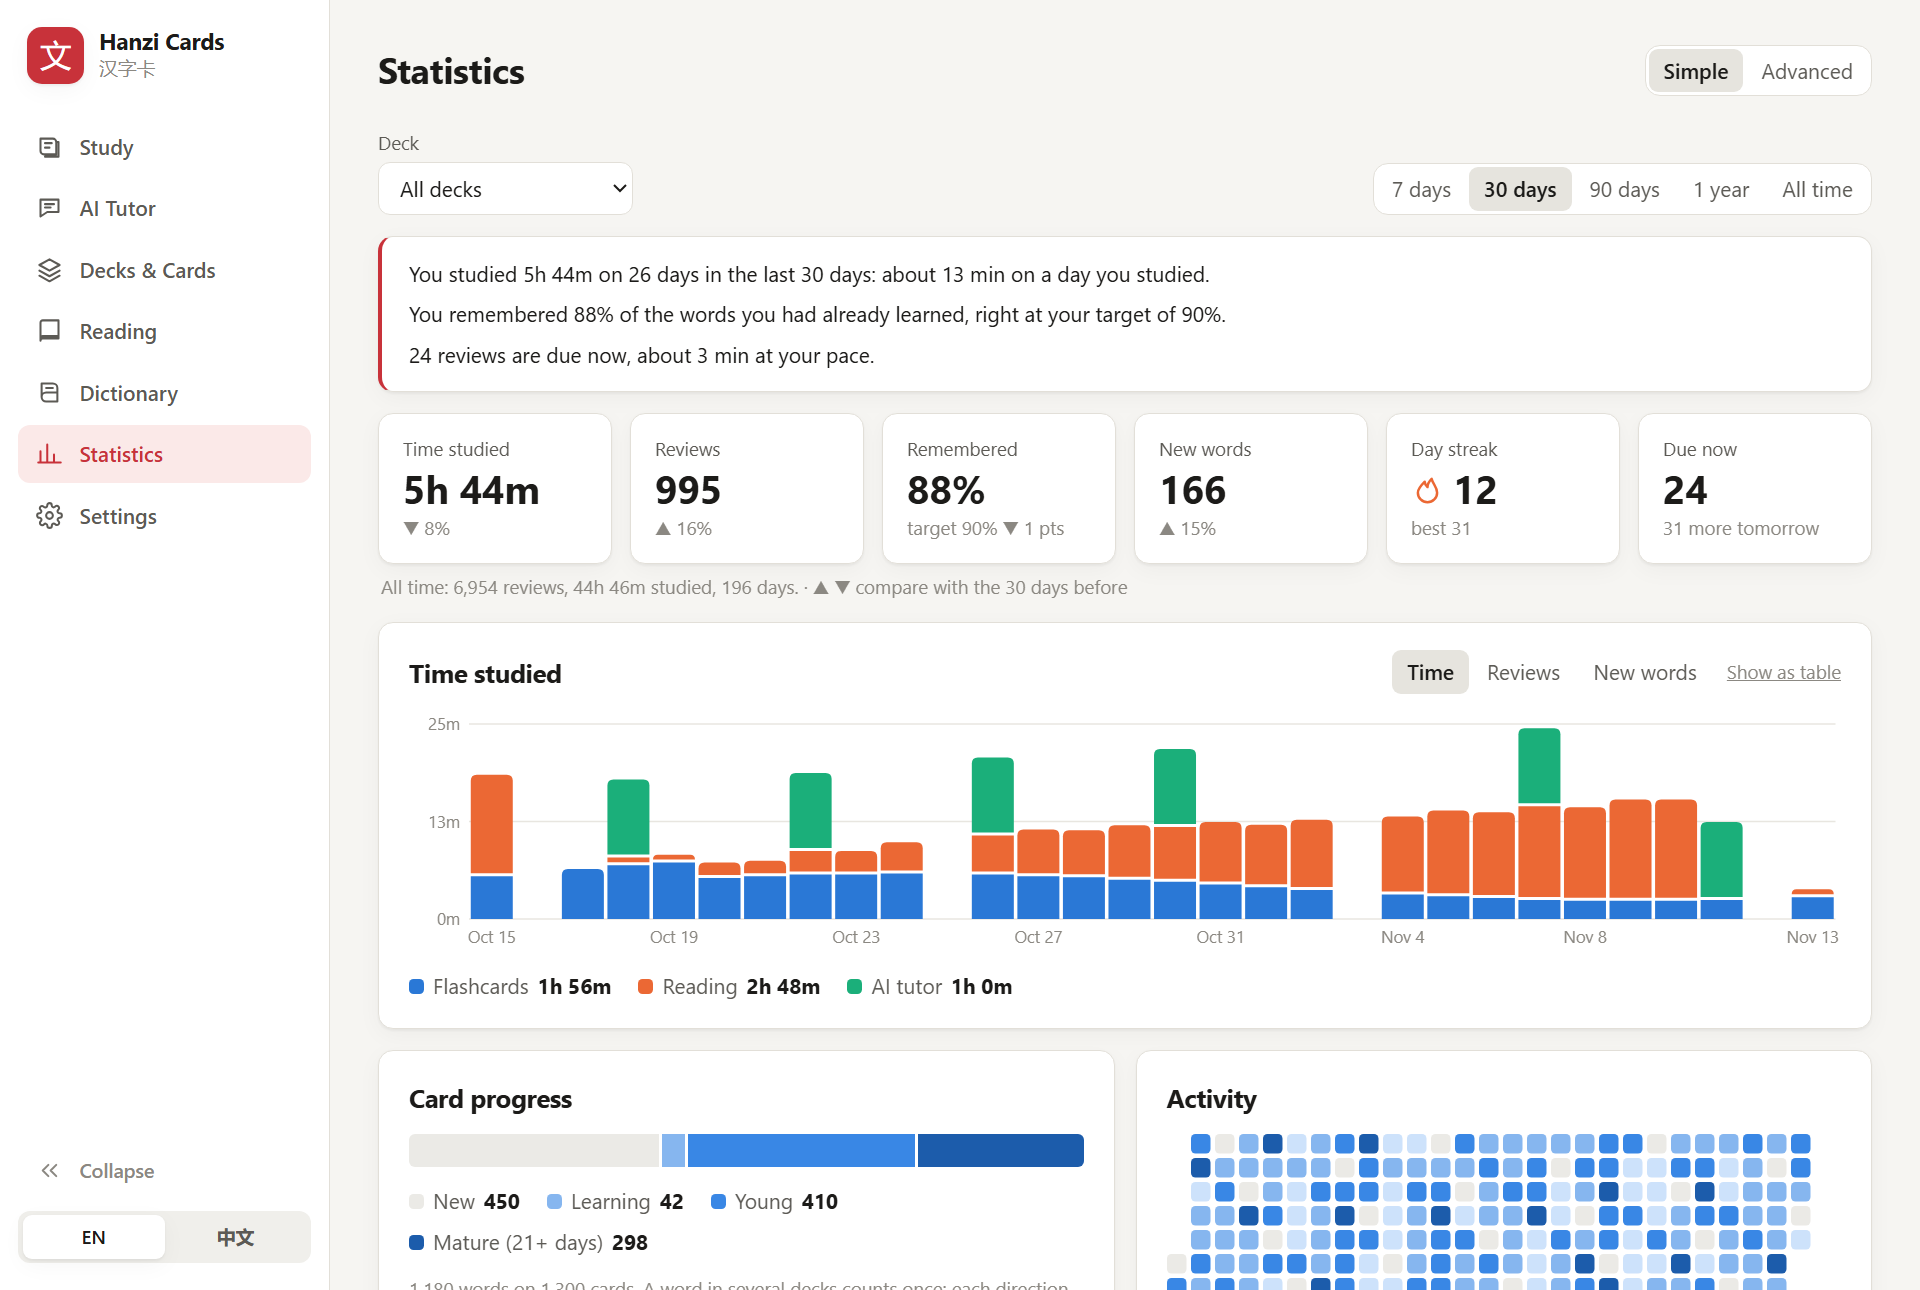
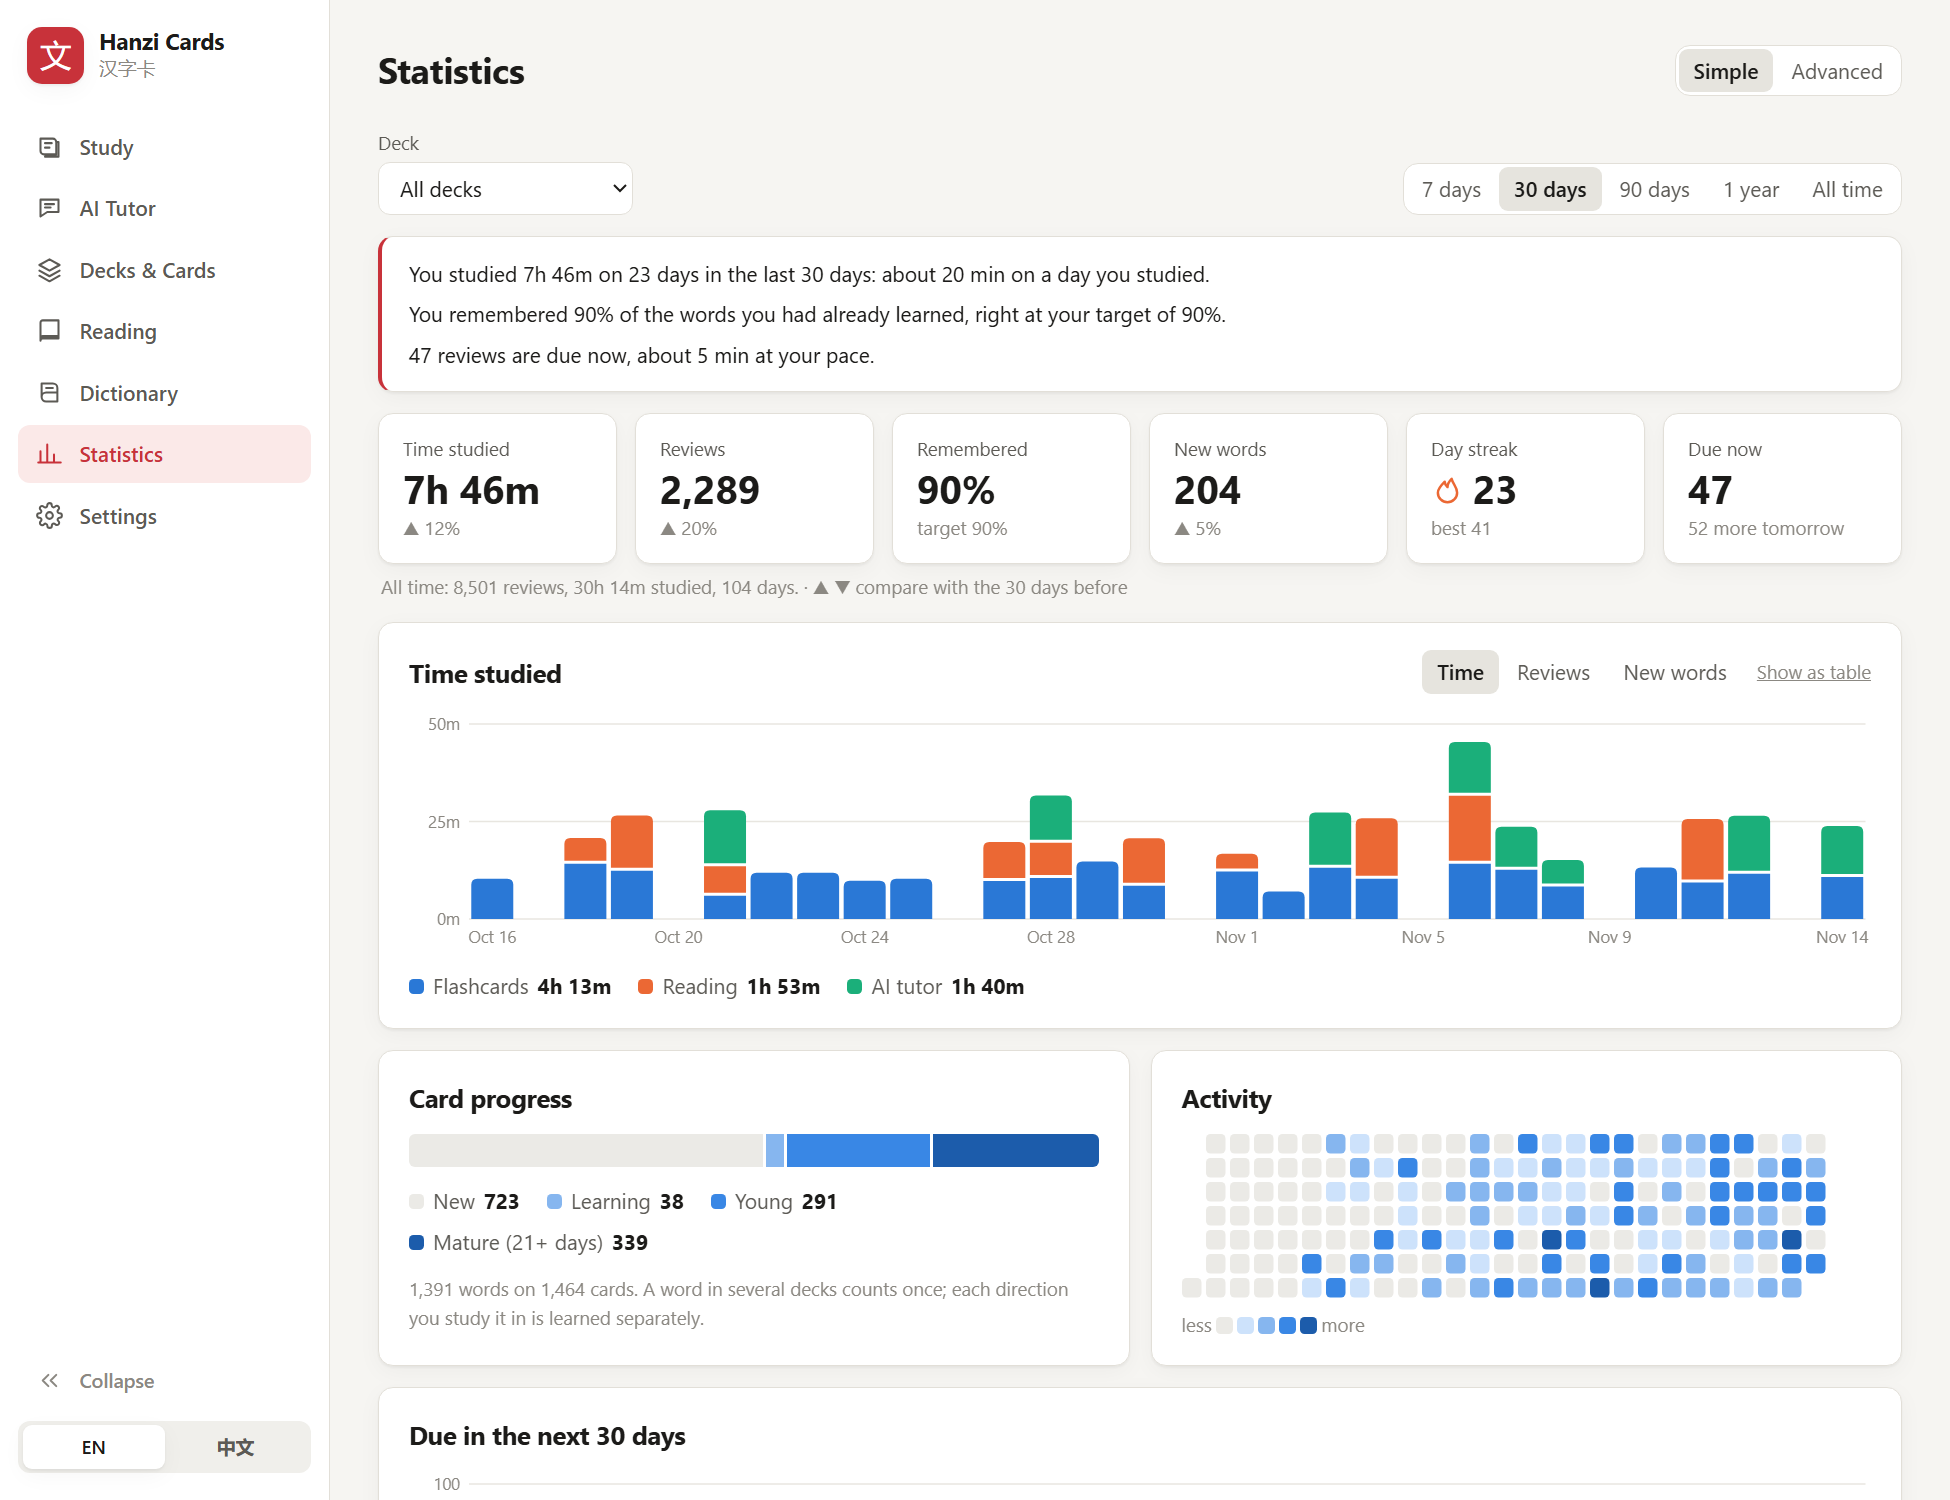
README: new screenshots, a Download section, features in groups
Eight screenshots from sample data, each in a different theme (study answer and question, decks, the reading library and an open story, dictionary, theme picker, statistics). A Download table per platform, a contents line, and the feature list under headings. The tone section covers all of speaker 1's recordings. Reading: the key vocabulary box is as wide as the story's text.

diff --git a/src/views/ReadingView.svelte b/src/views/ReadingView.svelte
@@ -702,7 +702,7 @@
       {/if}
 
       {#if vocab.length}
-        <section class="vocab card-surface">
+        <section class="vocab card-surface" style="--rs:{settings.readingSize}px">
           <button class="vocab-head" aria-expanded={showVocab} onclick={() => (showVocab = !showVocab)}>
             <span class="twisty" class:open={showVocab} aria-hidden="true">▸</span>
             <span>{t("reading.keyVocab")}</span>
@@ -1163,7 +1163,7 @@
     background: var(--surface-2);
   }
   .vocab {
-    max-width: 52em;
+    max-width: calc(52 * var(--rs)); /* as wide as the text below it */
     margin-bottom: 12px;
     padding: 10px 16px;
   }

diff --git a/README.md b/README.md
@@ -1,17 +1,52 @@
 # Hanzi Cards (汉字卡)
 
-A desktop flash card app for learning Mandarin Chinese (Simplified), for Windows, macOS and Linux.
+A desktop app for learning Mandarin Chinese (Simplified): flash cards with spaced repetition, spoken
+answers checked on your own computer, graded reading, a dictionary and statistics. Free and open
+source, for Windows, macOS and Linux. Your cards, recordings and study history stay on your computer.
+
+![Studying: a card's answer, with each character and its pinyin coloured by tone, and the Wrong / Right buttons](docs/images/study.png)
+
+## Download
+
+**[Get the latest release](https://github.com/wjhdfnmf/hanzi-cards/releases/latest)**
+
+| | File | Notes |
+|---|---|---|
+| Windows 10/11 | `Hanzi.Cards_<version>_x64-setup.exe` | Installs for your account, no administrator prompt. Not code-signed: *More info → Run anyway* |
+| macOS 13+ | `…_aarch64.dmg` (Apple Silicon), `…_x64.dmg` (Intel) | Not signed with an Apple certificate: *Privacy & Security → Open Anyway*. **Not yet tested on a Mac** |
+| Debian, Ubuntu, Mint | `…_amd64.deb` | `sudo apt install ./Hanzi.Cards_<version>_amd64.deb` |
+| Fedora, openSUSE | `…x86_64.rpm` | `sudo dnf install ./Hanzi.Cards-<version>-1.x86_64.rpm` |
+| Arch | [`packaging/arch`](packaging/arch) | `makepkg -si` |
+| Any Linux | `…_amd64.AppImage` | `chmod +x`, then run it |
+
+Nothing else is needed to start: the dictionary ships with the app, and a small sample deck is made on
+first start. Speech models, the built-in voice and extra fonts are downloaded from inside the app if
+and when you want them. The AI tutor is optional and needs your own Anthropic API key.
+
+## A look around
 
 <p>
-  <img src="docs/images/study-sakura.png" width="49%" alt="A card's answer in the Sakura theme: characters coloured by tone, pinyin, meaning and the Wrong / Right buttons">
-  <img src="docs/images/study-ink.png" width="49%" alt="The same in the Ink &amp; paper theme">
-  <img src="docs/images/study-lantern.png" width="49%" alt="A card's question in the Lantern theme">
-  <img src="docs/images/study-moon.png" width="49%" alt="A card's answer in the Moon Night theme">
+  <img src="docs/images/decks.png" width="49%" alt="Decks &amp; Cards in the Ink &amp; paper theme: nested decks with due and new counts, and a deck's cards with tone-coloured characters">
+  <img src="docs/images/study-question.png" width="49%" alt="A card's question in the Indigo theme">
+  <img src="docs/images/reading-library.png" width="49%" alt="The Reading library as cloth-bound book covers, in the Lantern theme">
+  <img src="docs/images/reading-story.png" width="49%" alt="An open story with its key vocabulary, in the Celadon theme with a thread-bound banner">
+  <img src="docs/images/dictionary.png" width="49%" alt="Dictionary search results in the Matcha theme">
+  <img src="docs/images/themes.png" width="49%" alt="The theme picker: sixteen themes in three groups">
 </p>
 
-![The Statistics page: what the figures mean in a few sentences, headline numbers, and time studied by day](docs/images/statistics.png)
+![Statistics: what the figures mean in a few sentences, the headline numbers, time studied by day, card progress and activity](docs/images/statistics.png)
 
 <sub>Screenshots use sample data.</sub>
+
+## Contents
+
+[What it does](#what-it-does) · [Stack](#stack) · [Data safety](#data-safety) · [Security](#security) ·
+[How tone checking was built and measured](#how-tone-checking-was-built-and-measured) ·
+[Develop](#develop) · [Layout](#layout) · [Licence](#licence)
+
+## What it does
+
+### Cards and decks
 
 - **Cards** with characters, pinyin, English meaning, notes and tags, organised into **nested decks**
   (e.g. Class › Class 9; a deck includes its subdecks when listing, studying and exporting; one button
@@ -26,6 +61,17 @@ A desktop flash card app for learning Mandarin Chinese (Simplified), for Windows
   (`nihao` → 你好, `woaini` → 我爱你; add a tone number to narrow: `ni3`). Pinyin and meaning fill in from the
   dictionary and update as you add characters. In the pinyin field, a digit after a syllable sets its tone
   (`ni3` → `nǐ`, `5` = neutral)
+- **HSK tags**: new cards are tagged with their HSK 3.0 level (2026 syllabus, with the 2021 lists filling gaps;
+  combinations of list words get the highest level of their parts). The cards table sorts by any column
+- **Pleco flashcards** (`.xml`): import categories as (nested) decks (re-importing an updated file skips cards you
+  already have; pinyin is checked against the dictionary, with Pleco's reading choosing between readings),
+  and export any deck back to Pleco (decks become categories, pinyin as tone numbers)
+- **CSV/TSV import & export** (also works with Anki and Pleco text exports); a 6th `deck` column holds
+  the subdeck path, e.g. `Class 9` or `Lesson 1/Food`. Every file format the app reads and writes is
+  described in [docs/import-formats.md](docs/import-formats.md)
+
+### Studying
+
 - **Study** with FSRS-6 spaced repetition. Pick decks, tags, mode (due & new / new only / cram / difficult), session size, and directions:
   characters → meaning, meaning → characters, listening, and **speaking**: say the answer and it is checked
   by speech recognition, either Windows' built-in Mandarin recognizer or OpenAI Whisper run locally
@@ -35,19 +81,34 @@ A desktop flash card app for learning Mandarin Chinese (Simplified), for Windows
   While studying: **Back** returns to the card just answered and takes its answer back; *Show answer*
   stays in place as *Hide answer* with Wrong / Right below it; Space shows or hides, 9 or 1 is wrong,
   0 or 2 is right; the counter says how many cards are answered and how many will come round again
-- **AI conversation tutor** (optional, needs your own Anthropic API key): a spoken role-play with Claude
-  built from your decks' words. Speak (Whisper, on this computer) or type; it answers aloud, notes which of
-  your words you used correctly, suggests new words, and at the end records reviews and adds cards. Each
-  conversation can be tuned (level, corrections, English, reply length…), typing has a built-in pinyin
-  keyboard, and Settings keeps a record of what the tutor has cost
-- **HSK tags**: new cards are tagged with their HSK 3.0 level (2026 syllabus, with the 2021 lists filling gaps;
-  combinations of list words get the highest level of their parts). The cards table sorts by any column
-- **Dictionary**: CC-CEDICT (~120k entries), searchable by characters, pinyin (with or without tones) or English; one click adds a word as a card. The card editor auto-fills pinyin and meaning from it
 - **Voices**: words, stories and the tutor are read aloud by the system's Chinese voice. Where there
   is none (most Linux installs), or if you prefer it, Settings › Audio downloads a built-in voice
   (Kokoro, 147 MB, Chinese and English) that runs on the computer itself, with its own volume setting. With no voice at all, the
   speaker buttons are switched off and say why. The options that were weighed are in
   [docs/tts-options.md](docs/tts-options.md)
+- **Tone colours** for characters and pinyin
+
+### Reading and the dictionary
+
+- **Reading**: stories in nested collections (type them, or import text files or a whole folder), shown as
+  a plain list or as book covers (illustrated, cloth & gilt, thread-bound 线装, or poster: Settings › Reading), with
+  bookmarks and a full-screen view; **Read aloud** reads a story a sentence at a time and marks the
+  sentence being read (and the word, where the voice reports it), starting from the selection if text is selected; a word that isn't a card yet can be made one from its hover note; export a
+  story or a whole collection as plain text files, to keep or to share with other learners (importing
+  them gives the same stories back); hover a word for its pinyin and meaning; choose the typeface (free Chinese fonts can be downloaded), size and
+  spacing. Stories are kept in a database of their own
+- **Dictionary**: CC-CEDICT (~120k entries), searchable by characters, pinyin (with or without tones) or English; one click adds a word as a card. The card editor auto-fills pinyin and meaning from it
+
+### AI conversation tutor
+
+- **AI conversation tutor** (optional, needs your own Anthropic API key): a spoken role-play with Claude
+  built from your decks' words. Speak (Whisper, on this computer) or type; it answers aloud, notes which of
+  your words you used correctly, suggests new words, and at the end records reviews and adds cards. Each
+  conversation can be tuned (level, corrections, English, reply length…), typing has a built-in pinyin
+  keyboard, and Settings keeps a record of what the tutor has cost
+
+### Statistics
+
 - **Statistics** for all decks or one, over the last week, month, quarter, year or all time. The
   simple view has the headline figures (time studied, reviews, how much you remembered against your
   target, new words, streak, what is due), a few sentences on what they mean, time or reviews over
@@ -57,20 +118,9 @@ A desktop flash card app for learning Mandarin Chinese (Simplified), for Windows
   the words you forget most. Settings › Your data can start the statistics over (after a backup;
   cards and their due dates stay). Time with a story open or in a tutor conversation is counted with flashcard time (only while the
   window is in front and in use)
-- **Tone colours** for characters and pinyin
-- **Pleco flashcards** (`.xml`): import categories as (nested) decks (re-importing an updated file skips cards you
-  already have; pinyin is checked against the dictionary, with Pleco's reading choosing between readings),
-  and export any deck back to Pleco (decks become categories, pinyin as tone numbers)
-- **CSV/TSV import & export** (also works with Anki and Pleco text exports); a 6th `deck` column holds
-  the subdeck path, e.g. `Class 9` or `Lesson 1/Food`. Every file format the app reads and writes is
-  described in [docs/import-formats.md](docs/import-formats.md)
-- **Reading**: stories in nested collections (type them, or import text files or a whole folder), shown as
-  a plain list or as book covers (illustrated, cloth & gilt, thread-bound 线装, or poster: Settings › Reading), with
-  bookmarks and a full-screen view; **Read aloud** reads a story a sentence at a time and marks the
-  sentence being read (and the word, where the voice reports it), starting from the selection if text is selected; a word that isn't a card yet can be made one from its hover note; export a
-  story or a whole collection as plain text files, to keep or to share with other learners (importing
-  them gives the same stories back); hover a word for its pinyin and meaning; choose the typeface (free Chinese fonts can be downloaded), size and
-  spacing. Stories are kept in a database of their own
+
+### Your data, language and looks
+
 - **Your data** (Settings): shows which database files hold your cards and your stories; back them up, save
   a copy anywhere, or switch to a backup or a database from another computer. The app also backs up by
   itself, in a folder of its own that it keeps tidy. See [Data safety](#data-safety)
@@ -186,8 +236,9 @@ for:
   *Calibrate tone detection* does, gives 94.1% against 96.6% from all their recordings.
 
 **speaker1**: one native speaker reading the project's own sheet
-(`docs/tone-recordings/speaker-sheet.pdf`) into a phone at home, with consent: 80 single syllables
-and 47 two-syllable words so far, 127 clips. It is the check that Tone Perfect can't give: an
+(`docs/tone-recordings/speaker-sheet.pdf`) into a phone at home, with consent: 284 clips. 80 single
+syllables and 47 two-syllable words, each at a careful and at an everyday speed, 20 words with one tone
+said wrong on purpose, and 10 sentences. It is the check that Tone Perfect can't give: an
 everyday voice, a plain microphone, and tones inside words. It was used for:
 
 - **Tones in words**, which Tone Perfect doesn't have. The first run got 61% of syllables in words
@@ -198,12 +249,14 @@ everyday voice, a plain microphone, and tones inside words. It was used for:
   Perfect and worse on speaker1 (it took low 3rd tones that never rise for 4th tones), and in words
   it was worse at every weight. That is why the app blends it instead of switching to it, and
   only for a syllable said alone. Other changes that helped one set and hurt the other were dropped.
-- **Knowing what is still wrong**: 2nd tones in words heard as 3rd (15 of 44), because this
-  speaker's 2nd tones start low and rise late.
+- **Knowing what is still wrong**: 2nd tones heard as 3rd, because this speaker's 2nd tones start low
+  and rise late. At everyday speed single syllables hold at 90% right, and syllables in words drop from
+  73% to 66%. Sentences can't be judged yet: the syllables aren't found reliably in running speech.
 
-What this doesn't cover: one home-recorded speaker is a small sample; nobody has recorded wrong
-tones on purpose yet (parts C and D of the sheet), so how often a wrong tone is let through is
-not measured; and there are no labelled learner recordings. The effect of the new classifier on
+What this doesn't cover: one home-recorded speaker is a small sample; the words recorded with a
+wrong tone on purpose still have to be listened to and labelled (the speaker did not always say the
+tone that was asked for), so how often a wrong tone is let through is not measured; and there are no
+labelled learner recordings. The effect of the new classifier on
 the combined Whisper + pitch judgement hasn't been measured either. Tone Perfect came without a
 licence text, and whether weights fitted to it may be distributed has not been confirmed with its
 authors.
